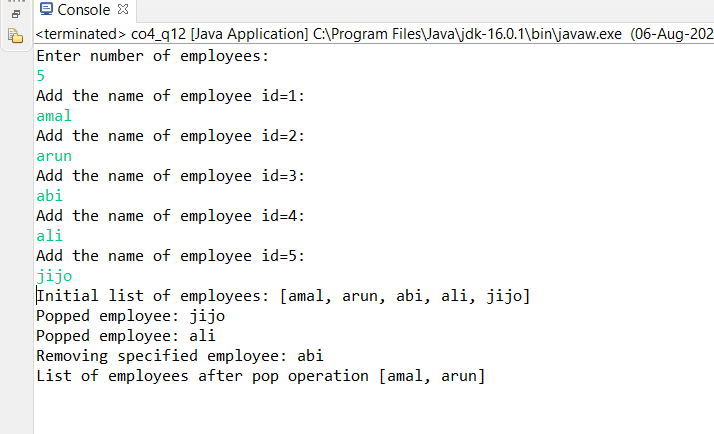
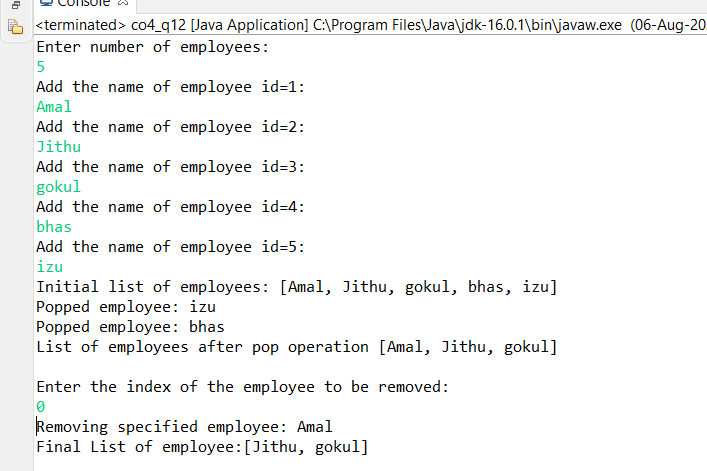
q12

Changed region(s): [[0.0, 0.0, 1.0, 0.9885]]

diff --git a/co4/co4_q12/co4_q12.java b/co4/co4_q12/co4_q12.java
@@ -13,9 +13,12 @@ public class co4_q12 {
  	    }
         System.out.println("Initial list of employees: " +employee);  
         System.out.println("Popped employee: " + employee.pop());  
-        System.out.println("Popped employee: " + employee.pop()); 
-        String rem_emp = employee.remove(2);
+        System.out.println("Popped employee: " + employee.pop());
+        System.out.println("List of employees after pop operation " +employee); 
+        System.out.println("\nEnter the index of the employee to be removed:");
+		int index = sc.nextInt();
+		String rem_emp = employee.remove(index);
         System.out.println("Removing specified employee: "+ rem_emp);
-        System.out.println("List of employees after pop operation " +employee);  
+        System.out.println("Final List of employee:" +employee);  
     }  
 }  
